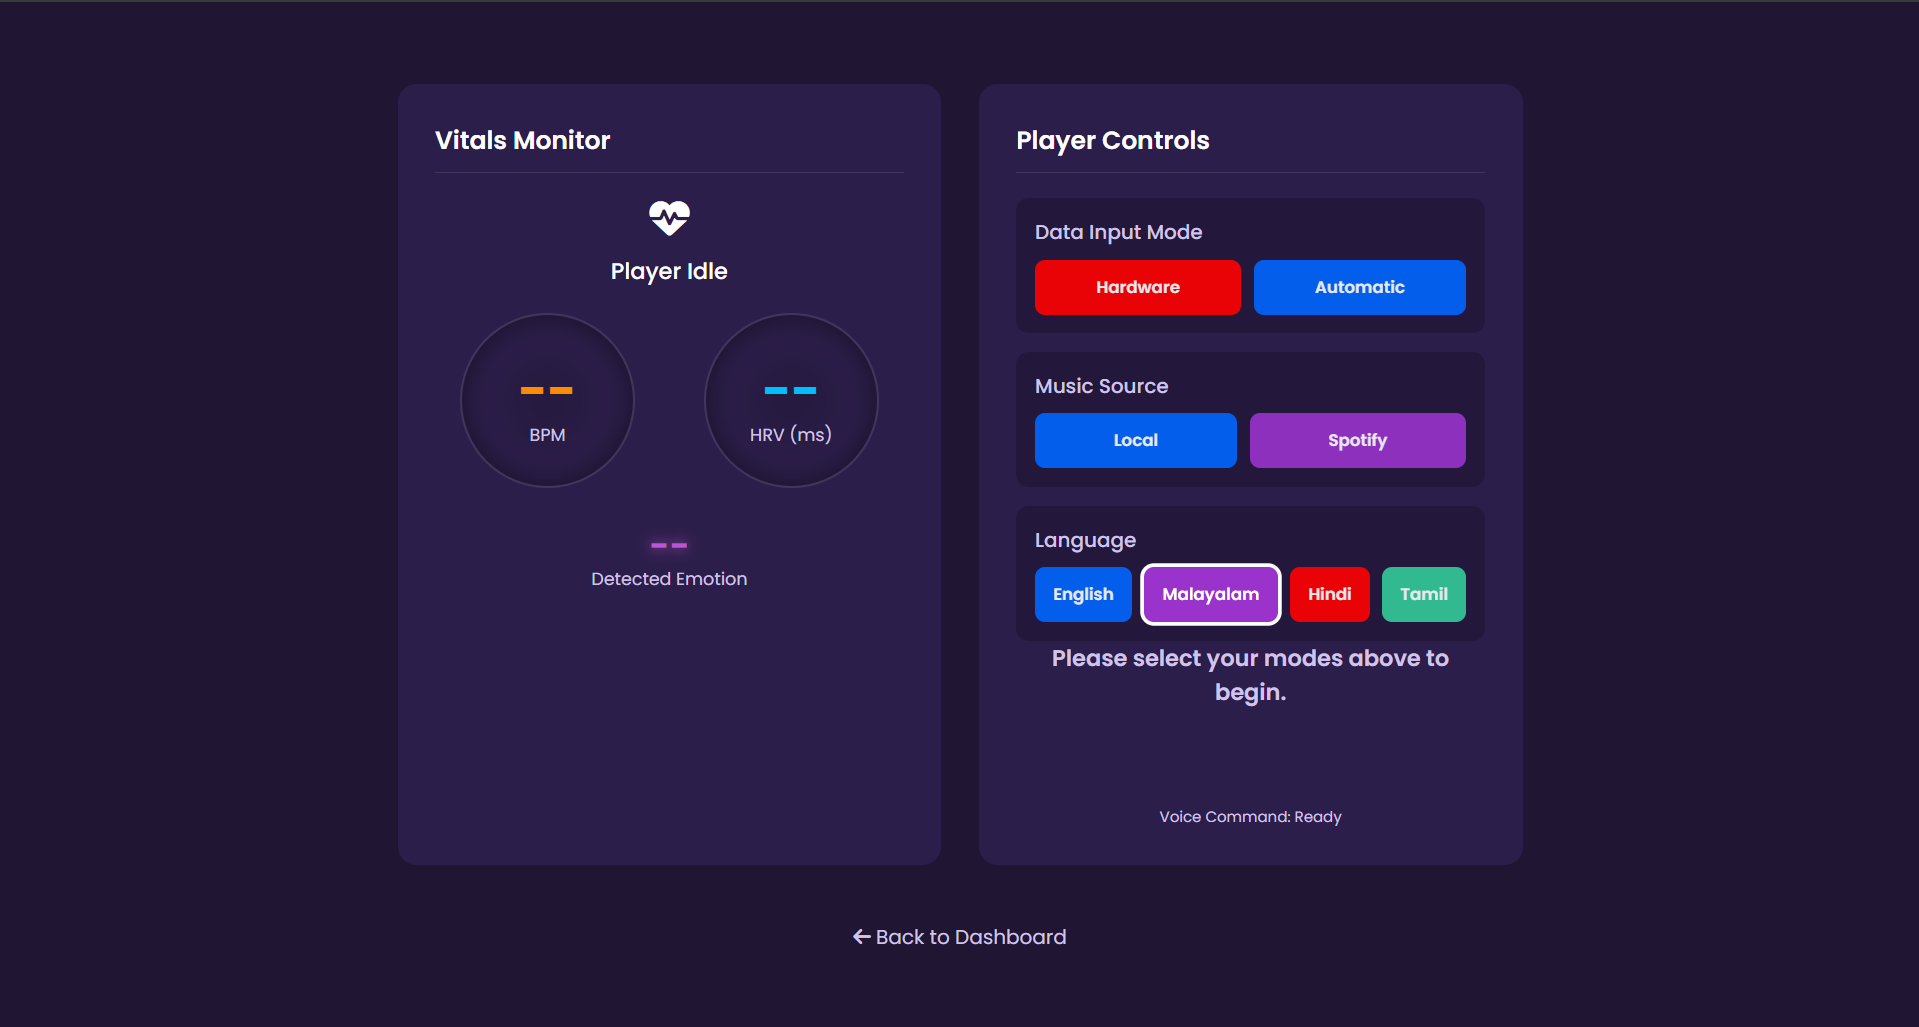
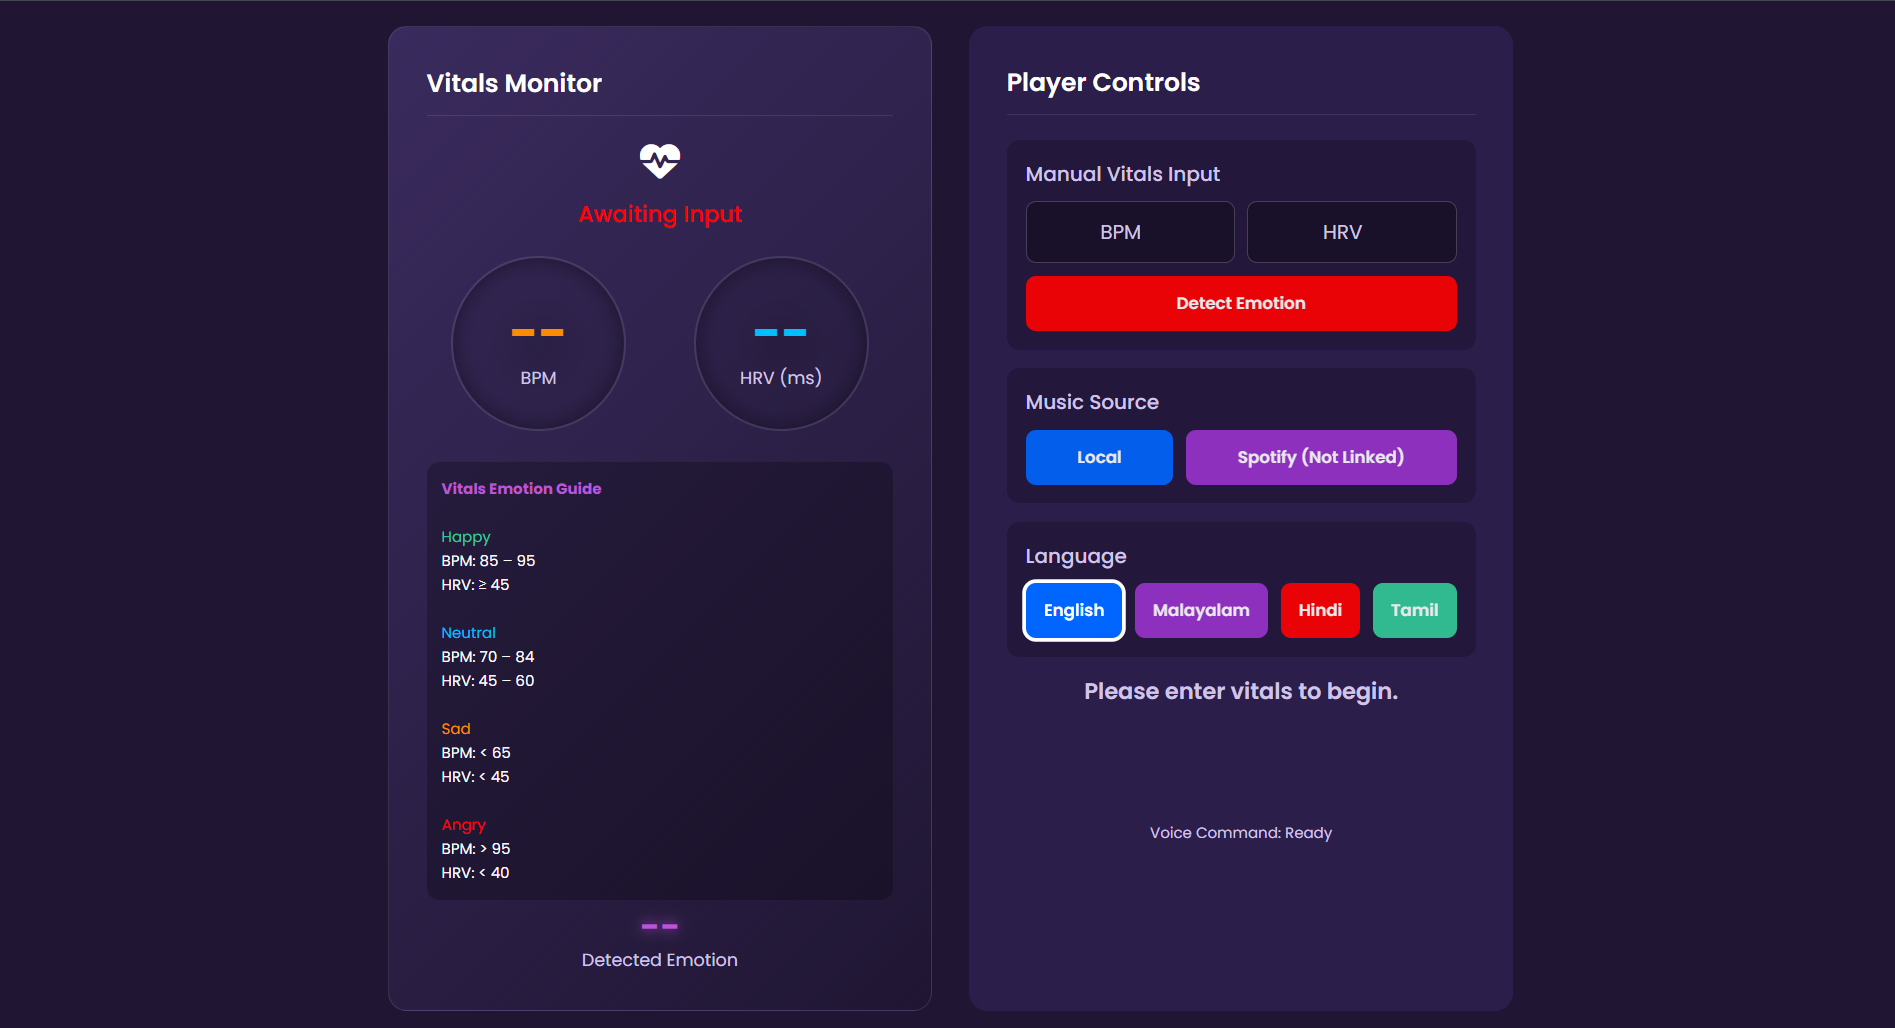
Updated README and screenshots

diff --git a/README.md b/README.md
@@ -7,7 +7,7 @@
 ![MongoDB](https://img.shields.io/badge/MongoDB-4DB33D?style=for-the-badge&logo=mongodb)
 [![MIT License](https://img.shields.io/github/license/Anwarsha7/emotion-music-player?style=for-the-badge)](https://github.com/Anwarsha7/emotion-music-player/blob/main/LICENSE)
 
-AuraTune is an intelligent music player that uses **AI-powered emotion detection** and **biometric sensing** to create playlists that match your mood in real time.  
+AuraTune is an intelligent music player that uses **AI-powered emotion detection* and *vitals-based mood analysis** to create playlists that match your mood in real time.  
 Developed as my **Final Year B.Tech Project**, AuraTune demonstrates the seamless blend of **artificial intelligence, music, and user experience**.  
 
 ![AuraTune Desktop Player](screenshots/camera-player.png)  
@@ -26,7 +26,7 @@ Here's a look at the AuraTune application, from the landing page to the differen
 *The personalized user dashboard after logging in.*
 
 ![Vitals Player](screenshots/vitals-player.png)  
-*The web-based player that uses biometric data from hardware.*
+*The web-based vitals player using BPM and HRV values for rule-based emotion detection.*
 
 ---
 
@@ -39,9 +39,10 @@ AuraTune offers multiple ways to experience emotion-driven music:
 - Smart "Inquiry System" for Sad/Angry moods, giving the user choice to reinforce or change their mood.
 
 ### ❤ Vitals Mode
-- A **web-based player** connected to biometric hardware (e.g., ESP32 via WebSockets).
-- Generates playlists based on **live Heart Rate Variability (HRV)** and **Beats Per Minute (BPM)**.
-- Includes an **Automatic Demo Mode** for showcasing functionality without hardware.
+- A web-based player with manual BPM and HRV input.
+- Uses a rule-based emotion detection system to classify emotions such as Happy, Sad, Angry, and Neutral.
+- Generates playlists based on the detected emotional state from vitals data.
+- Includes an intuitive interface for testing and demonstration without external hardware.
 
 ### 🎶 Spotify & Local Playback
 - Curates playlists from **local music files** or your **Spotify account**.
